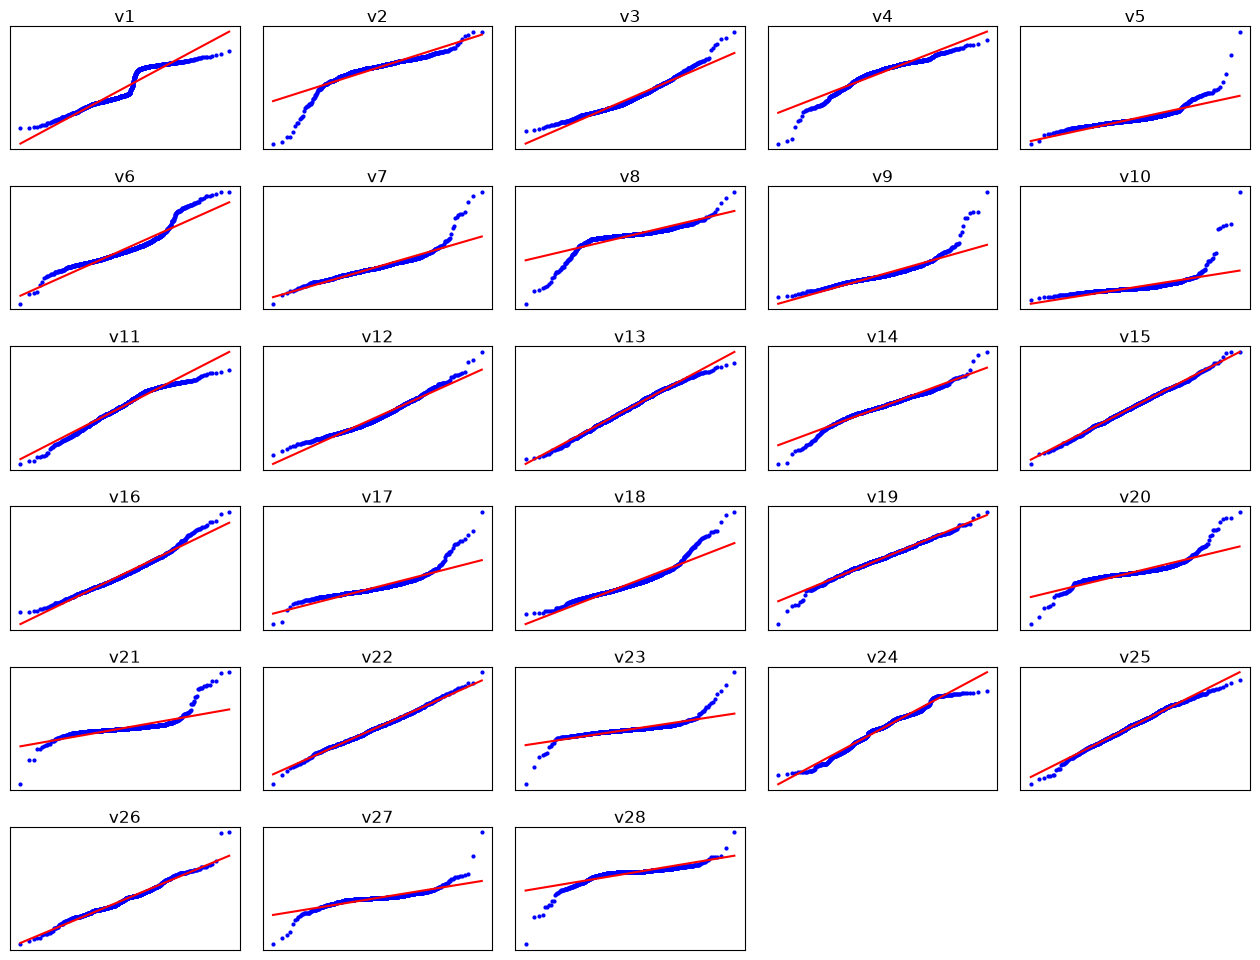
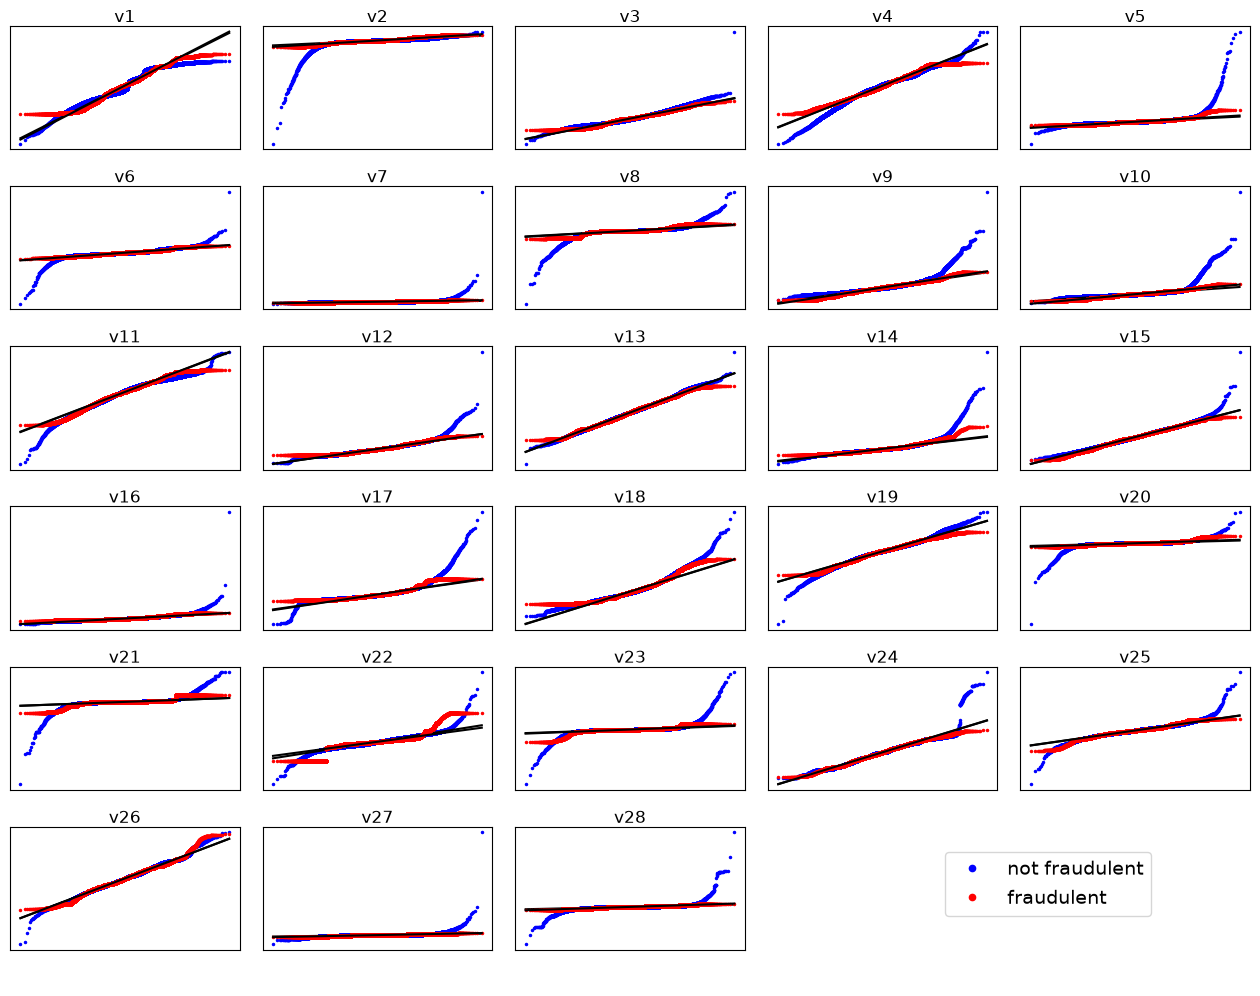
separate histograms and QQplots for class=0 and class=1

diff --git a/app/datavisual.py b/app/datavisual.py
@@ -7,42 +7,62 @@ from sqlalchemy import create_engine
 from sqlalchemy.engine import Engine
 
 def histograms(engine: Engine, bins: np.uint32 | None):
-    df = pd.read_sql(f"""SELECT {",".join(f"v{i}" for i in range(1, 29))},amount 
-                        FROM fraud_data WHERE split = 'TRAIN'""", engine)
+    df0 = pd.read_sql(f"""SELECT {",".join(f"v{i}" for i in range(1, 29))},amount 
+                        FROM fraud_data WHERE split = 'TRAIN' AND class = 0""", engine)
+    df1 = pd.read_sql(f"""SELECT {",".join(f"v{i}" for i in range(1, 29))},amount 
+                        FROM fraud_data WHERE split = 'TRAIN' AND class = 1""", engine)
 
-    axes = df.hist(grid=False,bins=(bins or 50),figsize=(16, 12)).flatten()
-    for ax in axes:
+    print(df0.shape[0],df1.shape[0])
+
+    axes = df0.hist(grid=False,bins=(bins or 50),figsize=(16, 12), alpha=0.5, label="not fraudulent").flatten()
+    for ax, col in zip(axes, df1):
+        df1[col].hist(grid=False,bins=(bins or 50),figsize=(16, 12), alpha=0.5, label="fraudulent", ax=ax)
+        for patch in ax.patches:
+            patch.set_height(patch.get_height()/patch.get_width())
+        ax.relim()
+        ax.autoscale_view()
         ax.set_xticks([])
         ax.set_yticks([])
         ax.set_title(ax.get_title(), fontsize=12, pad=2)
+
+    fig = axes[0].get_figure()
+    handles, labels = axes[0].get_legend_handles_labels()
+    fig.legend(handles, labels, loc=(0.79,0.08), fontsize=14, markerscale=3)
     plt.subplots_adjust(wspace=0.1, hspace=0.3)
     plt.savefig("plots/histograms.png", bbox_inches="tight")
 
+
 def qqplots(engine: Engine):
-    df = pd.read_sql(f"""SELECT {",".join(f"v{i}" for i in range(1, 29))} 
-                            FROM fraud_data WHERE split = 'TRAIN' LIMIT 1000""", engine)
+    df0 = pd.read_sql(f"""SELECT {",".join(f"v{i}" for i in range(1, 29))} 
+                        FROM fraud_data WHERE split = 'TRAIN' AND class = 0""", engine)
+    df1 = pd.read_sql(f"""SELECT {",".join(f"v{i}" for i in range(1, 29))} 
+                        FROM fraud_data WHERE split = 'TRAIN' AND class = 1""", engine)
+
     fig, axes = plt.subplots(nrows=6,ncols=5,figsize=(16, 12))
     axes = axes.flatten()
 
-    for ax, col in zip(axes, df):
-        sp.stats.probplot(df[col], dist="norm", plot=ax)
+    for ax, col in zip(axes, df0):
+        sp.stats.probplot(sp.stats.zscore(df0[col]), dist="norm", plot=ax)
+        sp.stats.probplot(sp.stats.zscore(df1[col]), dist="norm", plot=ax)
         ax.set_xticks([])
         ax.set_yticks([])
         ax.set_xlabel('')
         ax.set_ylabel('')
         ax.set_title(col, fontsize=12, pad=2)
-        ax.get_lines()[0].set_markersize(2)
+        ax.get_lines()[0].set_markersize(1.5)
+        ax.get_lines()[0].set_color('blue')
+        ax.get_lines()[1].set_color('black')
+        ax.get_lines()[2].set_markersize(1.5)
+        ax.get_lines()[2].set_color('red')
+        ax.get_lines()[3].set_color('black')
             
     fig.delaxes(axes[-1])
     fig.delaxes(axes[-2])
 
+    fig.legend(handles=[ax.get_lines()[0], ax.get_lines()[2]],
+            labels=['not fraudulent', 'fraudulent'], loc=(0.75,0.08), fontsize=14, markerscale=3)
     plt.subplots_adjust(wspace=0.1, hspace=0.3)
     plt.savefig("plots/QQplots.png", bbox_inches="tight")
-
-
-
-def single_feature_dependence():
-    pass
 
 
 def two_features_corr():
